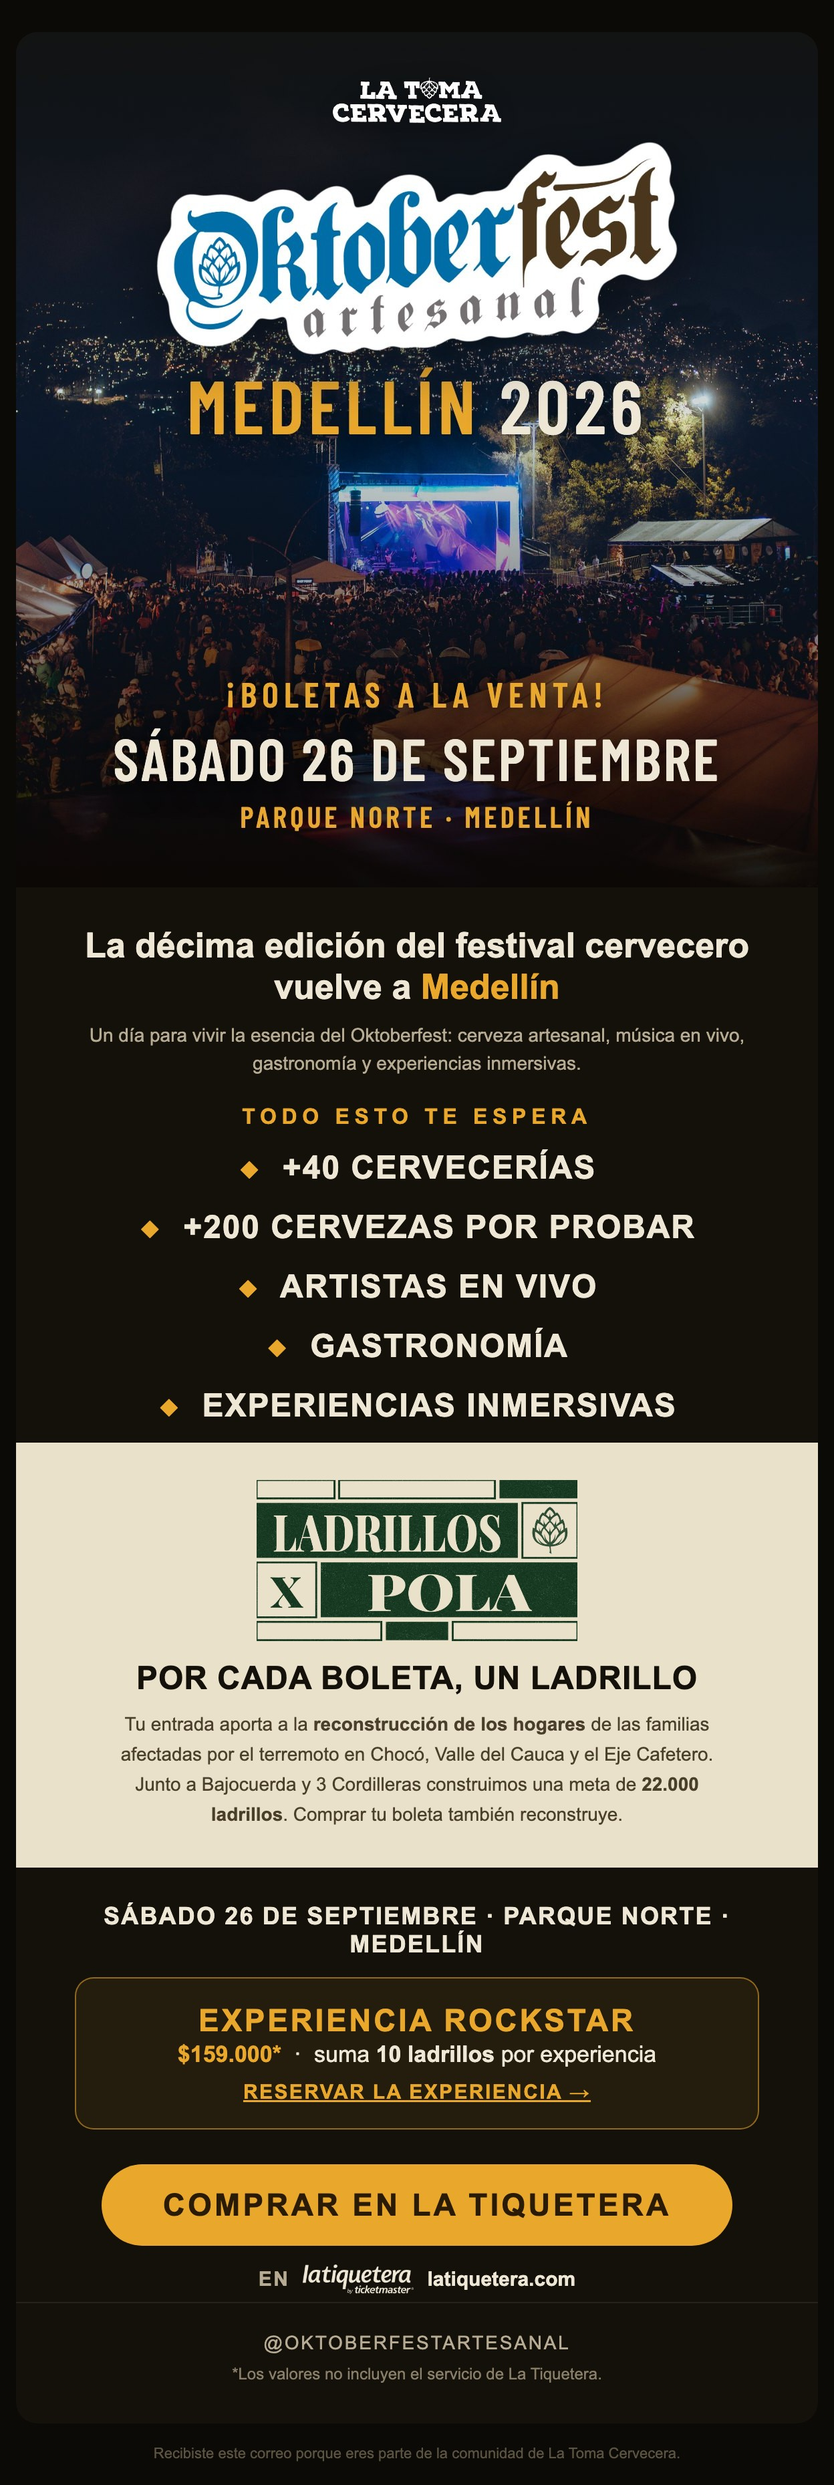
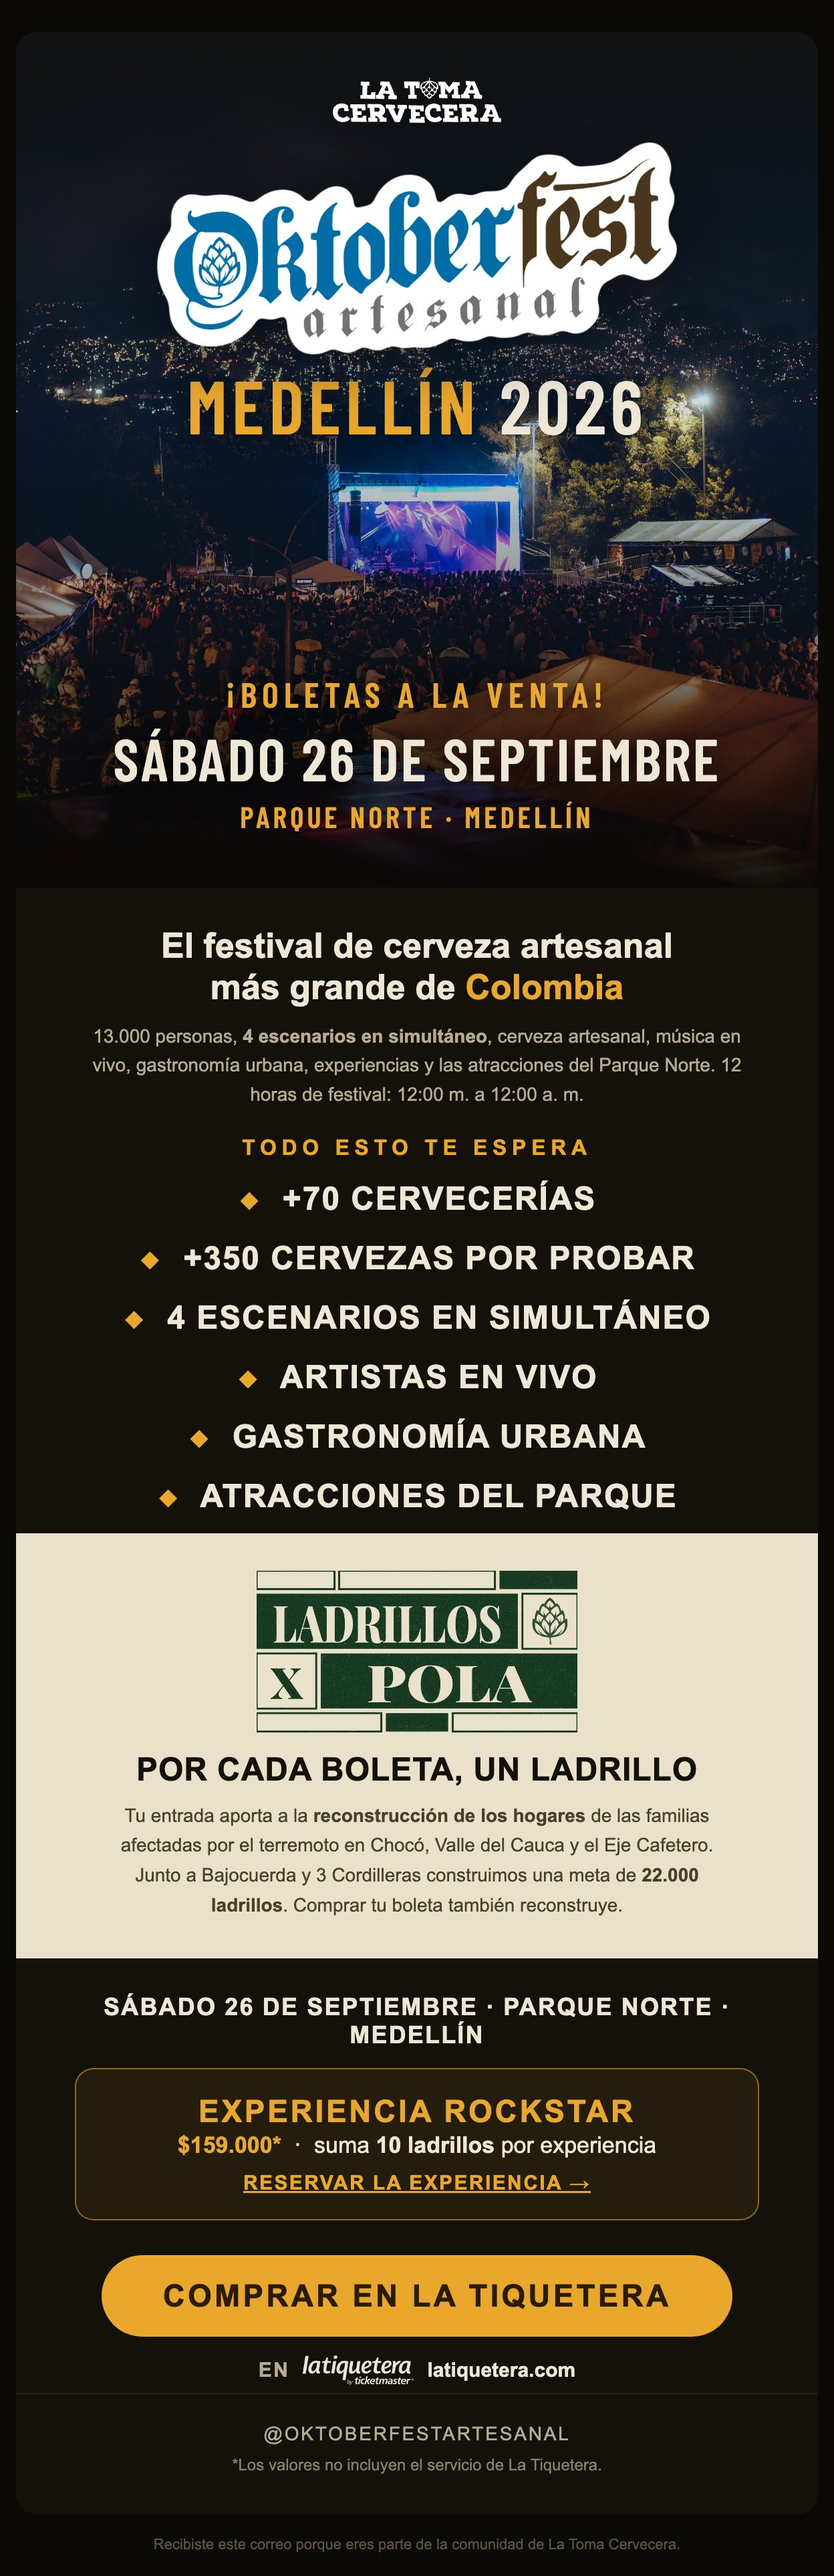
fix: email Medellín con info real (+70 cervecerías, +350 cervezas, 4 escenarios, atracciones del parque)

Changed region(s): [[0.0, 0.0312, 1.0, 0.9669], [0.9375, 0.1248, 0.9688, 0.156], [0.1562, 0.4679, 0.1875, 0.4991]]

diff --git a/piezas-bogota/renders/email/email-oktoberfest-medellin.html b/piezas-bogota/renders/email/email-oktoberfest-medellin.html
@@ -15,9 +15,10 @@
 
     <tr><td style="padding:28px 44px 6px;text-align:center;">
       <div style="font-family:'Barlow Condensed',Arial,sans-serif;font-size:26px;font-weight:700;color:#EEE7D6;line-height:1.2;">
-        La décima edición del festival cervecero<br>vuelve a <span style="color:#E9A72C;">Medellín</span></div>
-      <div style="font-family:Arial,sans-serif;font-size:14px;color:#B7AC93;margin-top:10px;line-height:1.5;">
-        Un día para vivir la esencia del Oktoberfest: cerveza artesanal, música en vivo, gastronomía y experiencias inmersivas.</div>
+        El festival de cerveza artesanal<br>más grande de <span style="color:#E9A72C;">Colombia</span></div>
+      <div style="font-family:Arial,sans-serif;font-size:14px;color:#B7AC93;margin-top:10px;line-height:1.55;">
+        13.000 personas, <b>4 escenarios en simultáneo</b>, cerveza artesanal, música en vivo, gastronomía urbana,
+        experiencias y las atracciones del Parque Norte. 12 horas de festival: 12:00 m. a 12:00 a. m.</div>
     </td></tr>
 
     <tr><td style="padding:14px 66px 6px;text-align:center;">
@@ -25,15 +26,17 @@
         text-transform:uppercase;color:#E9A72C;margin-bottom:6px;">Todo esto te espera</div>
       <table role="presentation" width="100%" cellpadding="0" cellspacing="0"><tr><td style="padding:8px 0;font-family:'Barlow Condensed',Arial,sans-serif;font-size:24px;
       font-weight:600;letter-spacing:.04em;text-transform:uppercase;color:#EEE7D6">
-      <span style="color:#E9A72C">&#9670;</span>&nbsp;&nbsp;+40 Cervecerías</td></tr><tr><td style="padding:8px 0;font-family:'Barlow Condensed',Arial,sans-serif;font-size:24px;
+      <span style="color:#E9A72C">&#9670;</span>&nbsp;&nbsp;+70 Cervecerías</td></tr><tr><td style="padding:8px 0;font-family:'Barlow Condensed',Arial,sans-serif;font-size:24px;
       font-weight:600;letter-spacing:.04em;text-transform:uppercase;color:#EEE7D6">
-      <span style="color:#E9A72C">&#9670;</span>&nbsp;&nbsp;+200 Cervezas por probar</td></tr><tr><td style="padding:8px 0;font-family:'Barlow Condensed',Arial,sans-serif;font-size:24px;
+      <span style="color:#E9A72C">&#9670;</span>&nbsp;&nbsp;+350 Cervezas por probar</td></tr><tr><td style="padding:8px 0;font-family:'Barlow Condensed',Arial,sans-serif;font-size:24px;
+      font-weight:600;letter-spacing:.04em;text-transform:uppercase;color:#EEE7D6">
+      <span style="color:#E9A72C">&#9670;</span>&nbsp;&nbsp;4 Escenarios en simultáneo</td></tr><tr><td style="padding:8px 0;font-family:'Barlow Condensed',Arial,sans-serif;font-size:24px;
       font-weight:600;letter-spacing:.04em;text-transform:uppercase;color:#EEE7D6">
       <span style="color:#E9A72C">&#9670;</span>&nbsp;&nbsp;Artistas en vivo</td></tr><tr><td style="padding:8px 0;font-family:'Barlow Condensed',Arial,sans-serif;font-size:24px;
       font-weight:600;letter-spacing:.04em;text-transform:uppercase;color:#EEE7D6">
-      <span style="color:#E9A72C">&#9670;</span>&nbsp;&nbsp;Gastronomía</td></tr><tr><td style="padding:8px 0;font-family:'Barlow Condensed',Arial,sans-serif;font-size:24px;
+      <span style="color:#E9A72C">&#9670;</span>&nbsp;&nbsp;Gastronomía urbana</td></tr><tr><td style="padding:8px 0;font-family:'Barlow Condensed',Arial,sans-serif;font-size:24px;
       font-weight:600;letter-spacing:.04em;text-transform:uppercase;color:#EEE7D6">
-      <span style="color:#E9A72C">&#9670;</span>&nbsp;&nbsp;Experiencias inmersivas</td></tr></table>
+      <span style="color:#E9A72C">&#9670;</span>&nbsp;&nbsp;Atracciones del parque</td></tr></table>
     </td></tr>
 
     <tr><td style="padding:0;">

diff --git a/piezas-bogota/build-email-medellin.py b/piezas-bogota/build-email-medellin.py
@@ -26,8 +26,8 @@ RAW = ("https://raw.githubusercontent.com/jdbeuth83/propuesta-oktoberfest-2026/"
 HERO_URL = RAW + "email/email-hero-medellin.jpg"
 SELLO_URL = RAW + "email/ladrillos-por-pola-sello.png"
 TIQ_URL = RAW + "email/latiquetera-crema.png"
-FEATS = ["+40 Cervecerías", "+200 Cervezas por probar", "Artistas en vivo",
-         "Gastronomía", "Experiencias inmersivas"]
+FEATS = ["+70 Cervecerías", "+350 Cervezas por probar", "4 Escenarios en simultáneo",
+         "Artistas en vivo", "Gastronomía urbana", "Atracciones del parque"]
 
 
 def du(p, m):
@@ -127,9 +127,10 @@ def email_html(hero_src, sello_src, tiq_src):
 
     <tr><td style="padding:28px 44px 6px;text-align:center;">
       <div style="font-family:'Barlow Condensed',Arial,sans-serif;font-size:26px;font-weight:700;color:#EEE7D6;line-height:1.2;">
-        La décima edición del festival cervecero<br>vuelve a <span style="color:#E9A72C;">Medellín</span></div>
-      <div style="font-family:Arial,sans-serif;font-size:14px;color:#B7AC93;margin-top:10px;line-height:1.5;">
-        Un día para vivir la esencia del Oktoberfest: cerveza artesanal, música en vivo, gastronomía y experiencias inmersivas.</div>
+        El festival de cerveza artesanal<br>más grande de <span style="color:#E9A72C;">Colombia</span></div>
+      <div style="font-family:Arial,sans-serif;font-size:14px;color:#B7AC93;margin-top:10px;line-height:1.55;">
+        13.000 personas, <b>4 escenarios en simultáneo</b>, cerveza artesanal, música en vivo, gastronomía urbana,
+        experiencias y las atracciones del Parque Norte. 12 horas de festival: 12:00 m. a 12:00 a. m.</div>
     </td></tr>
 
     <tr><td style="padding:14px 66px 6px;text-align:center;">
